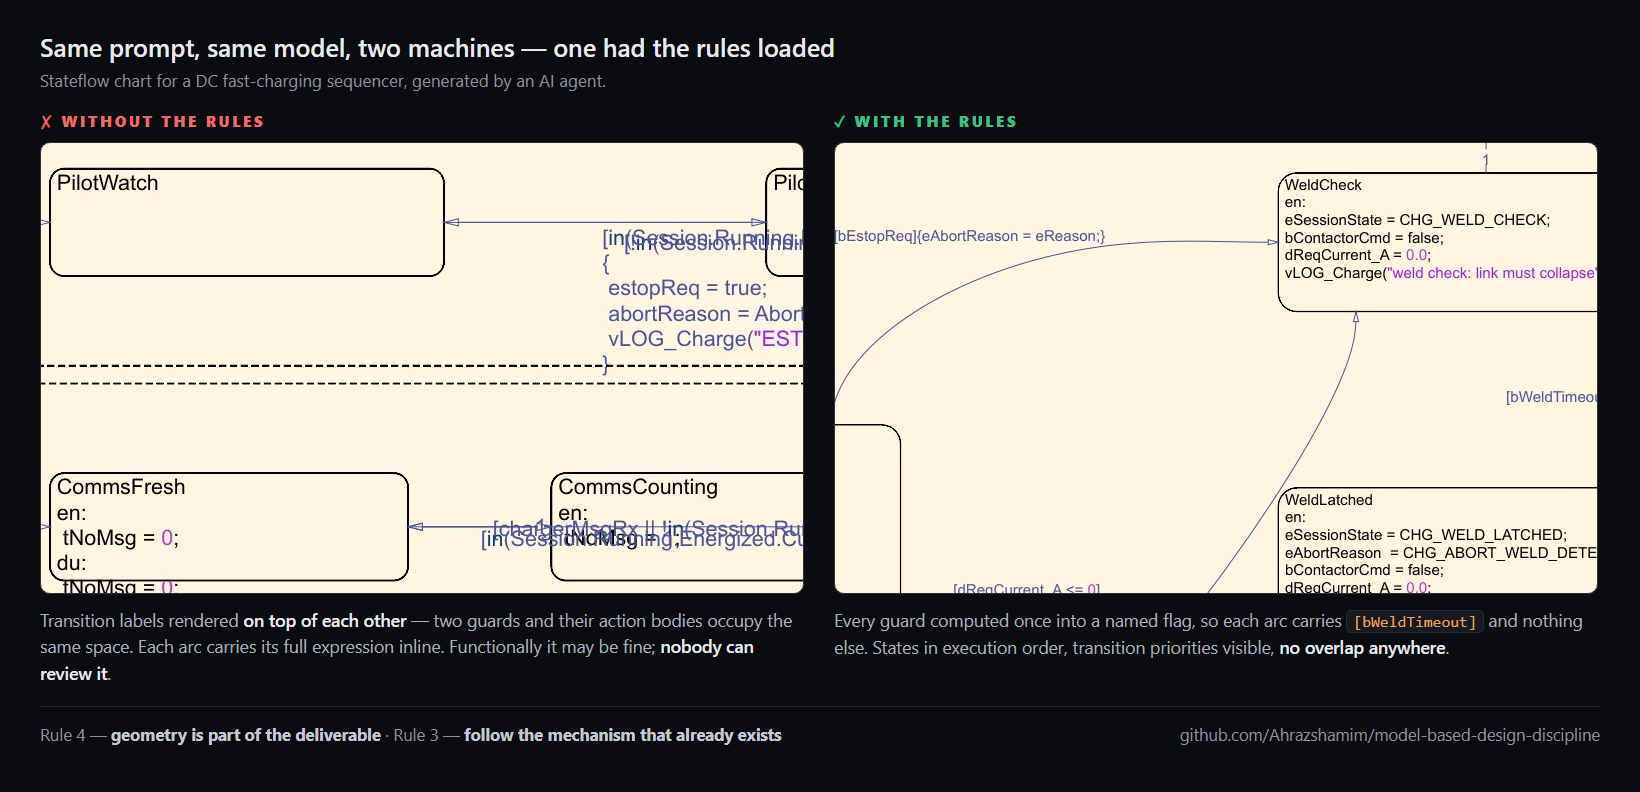
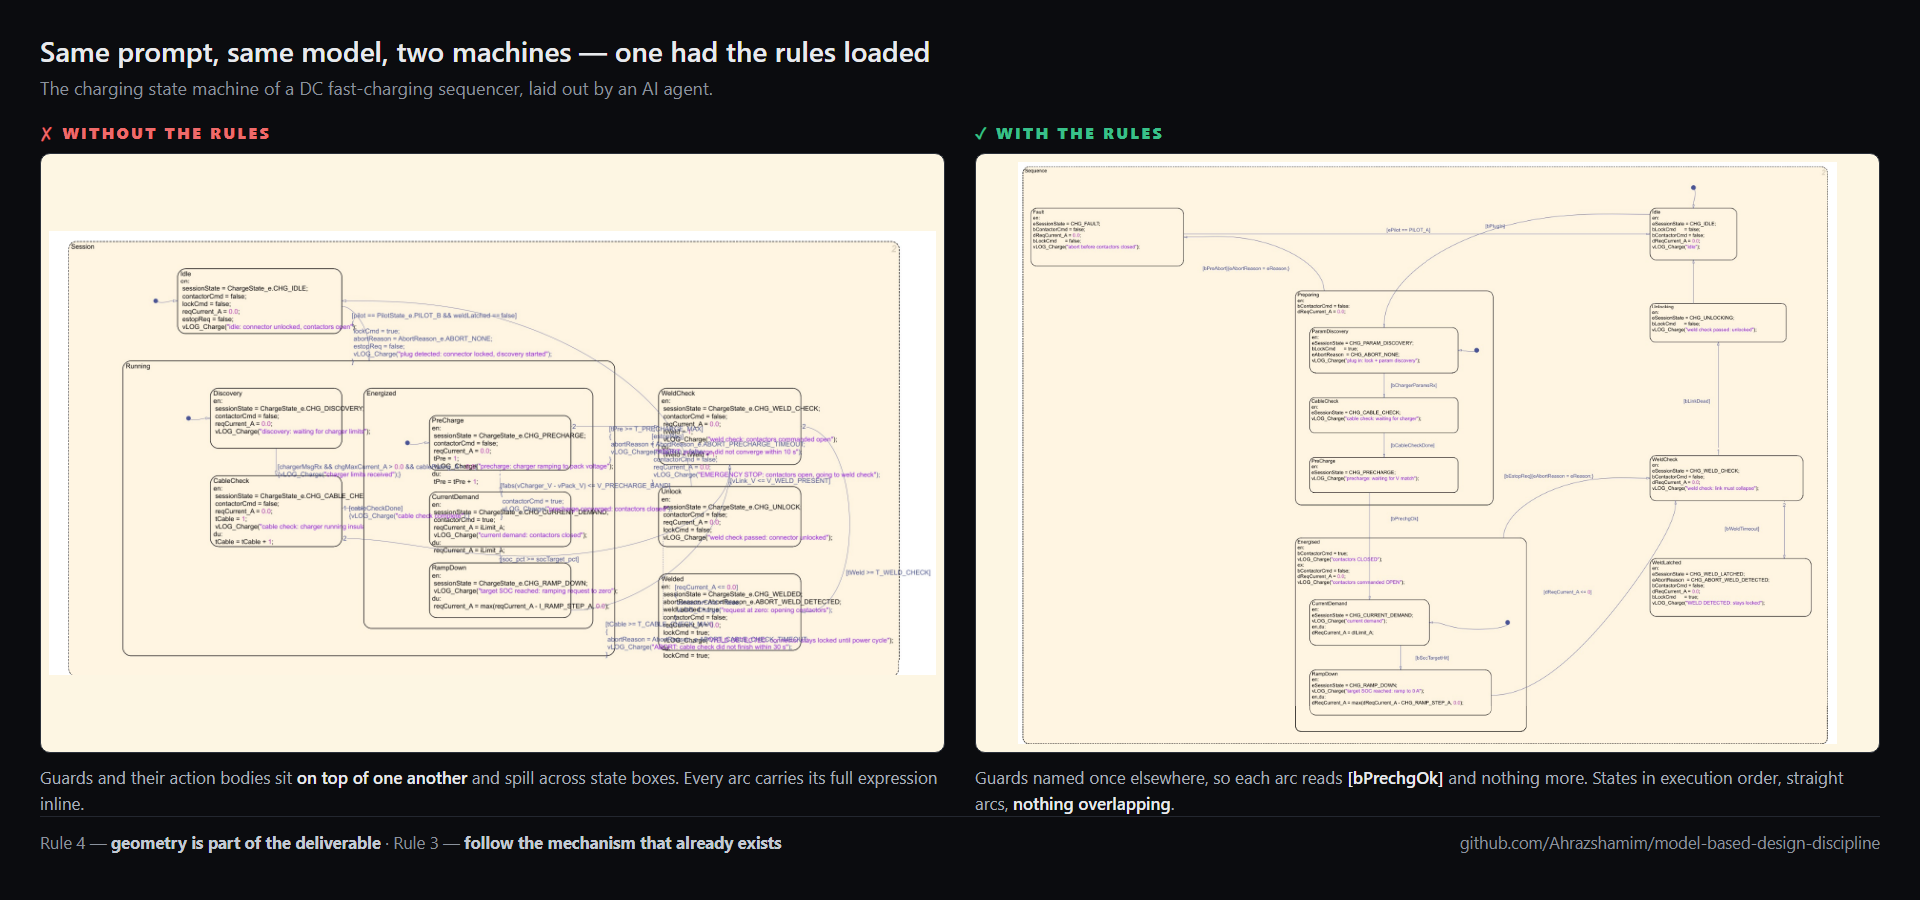
Use the full charts in the comparison, not cropped tiles
The first version of this figure was built from image tiles extracted out of a
PDF, so each panel showed a fragment of a chart and the crops did not line up
with each other. Replaces them with the four whole-chart screenshots, paired
like for like: Session against Sequence for the state machine, Supervisor
against Supervision for the guards.

At whole-chart zoom the density difference carries the point on its own, but
none of the text is legible there, so the substance now sits in the README as
code: the same pilot-lost condition written inline on an arc, and written once
into a named flag. That is the actual mechanism difference, and it reads
without opening an image.

All four charts are linked full size.

diff --git a/docs/before-after.html b/docs/before-after.html
@@ -1,41 +1,36 @@
 <!doctype html><html><head><meta charset="utf-8"><style>
  *{margin:0;padding:0;box-sizing:border-box}
- html,body{width:1640px;height:792px;overflow:hidden}
- body{background:#0b0c0f;color:#e8eaed;
-   font-family:"Segoe UI",system-ui,sans-serif;padding:30px 40px 24px}
- h2{font-size:25px;font-weight:600;margin-bottom:6px}
- .row{display:flex;gap:28px}
- .col{flex:1}
- .tag{font-size:15px;font-weight:800;letter-spacing:2.6px;text-transform:uppercase;margin-bottom:11px}
+ html,body{width:1920px;height:900px;overflow:hidden}
+ body{background:#0b0c0f;color:#e8eaed;font-family:"Segoe UI",system-ui,sans-serif;padding:32px 40px 26px}
+ h2{font-size:28px;font-weight:600}
+ .lede{font-size:18px;color:#8b929d;margin:7px 0 22px}
+ .row{display:flex;gap:30px}
+ .col{flex:1;display:flex;flex-direction:column}
+ .tag{font-size:15.5px;font-weight:800;letter-spacing:2.6px;text-transform:uppercase;margin-bottom:10px}
  .bad{color:#ef6a6a} .good{color:#39c08a}
- .shot{width:764px;height:452px;border-radius:10px;border:1px solid #2b313b;
-   background-repeat:no-repeat;background-color:#fdf6e3}
- .cap{font-size:17.5px;line-height:1.5;color:#a9b0bb;margin-top:13px;min-height:78px}
+ .card{height:600px;border-radius:10px;border:1px solid #2b313b;background:#fdf6e3;
+   display:flex;align-items:center;justify-content:center;overflow:hidden;padding:8px}
+ .card img{max-width:100%;max-height:100%;object-fit:contain}
+ .cap{font-size:17px;line-height:1.5;color:#a9b0bb;margin-top:12px}
  .cap b{color:#e8eaed;font-weight:600}
- .foot{margin-top:20px;border-top:1px solid #23272f;padding-top:16px;
+ .foot{margin-top:auto;border-top:1px solid #23272f;padding-top:14px;
    display:flex;justify-content:space-between;font-size:16.5px;color:#8b929d}
  .foot b{color:#c3cad4}
- code{font-family:Consolas,monospace;background:#161a21;border:1px solid #262c35;
-   border-radius:5px;padding:1px 6px;font-size:16px;color:#f0a35e}
 </style></head><body>
  <h2>Same prompt, same model, two machines — one had the rules loaded</h2>
- <div style="font-size:17px;color:#8b929d;margin-bottom:20px">
-   Stateflow chart for a DC fast-charging sequencer, generated by an AI agent.
- </div>
+ <div class="lede">The charging state machine of a DC fast-charging sequencer, laid out by an AI agent.</div>
  <div class="row">
    <div class="col">
      <div class="tag bad">✗ Without the rules</div>
-     <div class="shot" style="background-image:url('without_1.jpg');background-position:-340px -150px"></div>
-     <div class="cap">Transition labels rendered <b>on top of each other</b> — two guards and their
-       action bodies occupy the same space. Each arc carries its full expression inline.
-       Functionally it may be fine; <b>nobody can review it</b>.</div>
+     <div class="card"><img src="without-rules-session.png"></div>
+     <div class="cap">Guards and their action bodies sit <b>on top of one another</b> and spill
+       across state boxes. Every arc carries its full expression inline.</div>
    </div>
    <div class="col">
      <div class="tag good">✓ With the rules</div>
-     <div class="shot" style="background-image:url('with_4.jpg');background-position:-240px -420px"></div>
-     <div class="cap">Every guard computed once into a named flag, so each arc carries
-       <code>[bWeldTimeout]</code> and nothing else. States in execution order, transition
-       priorities visible, <b>no overlap anywhere</b>.</div>
+     <div class="card"><img src="with-rules-sequence.png"></div>
+     <div class="cap">Guards named once elsewhere, so each arc reads <b>[bPrechgOk]</b> and nothing
+       more. States in execution order, straight arcs, <b>nothing overlapping</b>.</div>
    </div>
  </div>
  <div class="foot">

diff --git a/README.md b/README.md
@@ -28,27 +28,55 @@ One had these rules loaded, one did not.
 
 ![Stateflow output with and without the rules](docs/before-after.png)
 
-**Left, without the rules.** Two transition labels and their action bodies are rendered in the
-same space, so neither can be read. Every arc carries its full expression inline.
+The shape of the difference is visible before any of the text is: dense and smudged on the left,
+structured and legible on the right. Zoom in and the reason is mechanical.
 
-**Right, with the rules.** Each guard is computed once into a named flag in a `du:` block, so the
-arcs carry `[bPreAbort]`, `[bPrechgOk]`, `[bWeldTimeout]` and nothing else. The chart even
-documents the convention it followed:
+**Without the rules**, every guard carries its whole expression and action body on the arc, so the
+labels grow until they collide:
+
+```matlab
+[in(Session.Running.Energized) && pilot != PilotState_e.PILOT_C]
+{
+  estopReq    = true;
+  abortReason = AbortReason_e.ABORT_PILOT_LOST;
+  vLOG_Charge("ESTOP: control pilot left state C");
+}
+```
+
+**With the rules**, the conditions are computed once, in one place, with the reasoning written
+down — and the arcs carry a name:
+
+```matlab
+% in the parallel Supervision state:
+du:
+/* Pilot monitor and comms watchdog, live only while energy can flow. */
+bPilotLost = in(Sequence.Energised) && (ePilot != PILOT_C);
+bCommsLost = in(Sequence.Energised.CurrentDemand) && (u16CommsQuiet >= CHG_TICKS_COMMS);
+bEstopReq  = bPilotLost || bCommsLost || bOverTemp;
+
+% on the arc:
+[bPilotLost || bPlugGone]{eReason = CHG_ABORT_PILOT_LOST;}
+```
+
+The guided chart also documents the conventions it worked to, rather than inferring them:
 
 ```matlab
 /* One tick = 100 ms; every threshold comes from STEP_S in build_dcfcSequencer.m. */
 /* Guard conditions for the sequence: the arcs themselves carry no arithmetic. */
 ```
 
-States sit in execution order, transition priorities are visible, and nothing overlaps.
+**What this does and does not show.** It is one prompt on one model, not a benchmark. The
+left-hand chart is not necessarily *wrong* — it may well simulate correctly. It is
+**unreviewable**, which is exactly the claim Rule 4 makes: a diagram a human cannot read is a
+diagram a human cannot approve. And the right-hand version is not merely tidier — naming each
+condition once is what makes the logic checkable line by line, and what stops the same predicate
+being written three slightly different ways on three different arcs.
 
-**What this does and does not show.** It is one prompt on one model, not a benchmark. The left
-chart is not necessarily *wrong* — it may simulate perfectly. It is **unreviewable**, which is the
-claim Rule 4 makes: a diagram a human cannot read is a diagram a human cannot approve. The
-difference in the right-hand chart is not tidiness for its own sake; naming each guard once is
-also what makes the logic reviewable line by line.
-
-Full-size: [without](docs/without-rules-full.jpg) · [with](docs/with-rules-full.jpg)
+Full-size charts:
+[Session, without](docs/without-rules-session.png) ·
+[Supervisor, without](docs/without-rules-supervisor.png) ·
+[Sequence, with](docs/with-rules-sequence.png) ·
+[Supervision, with](docs/with-rules-supervision.png)
 
 ### The seven rules, in one line each
 
